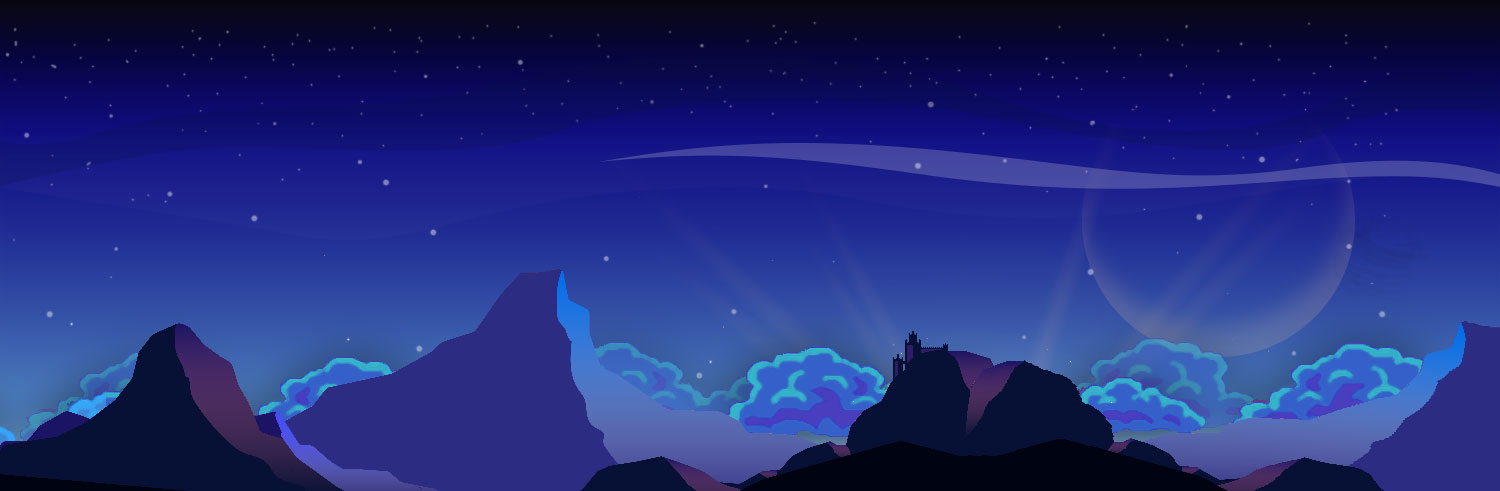
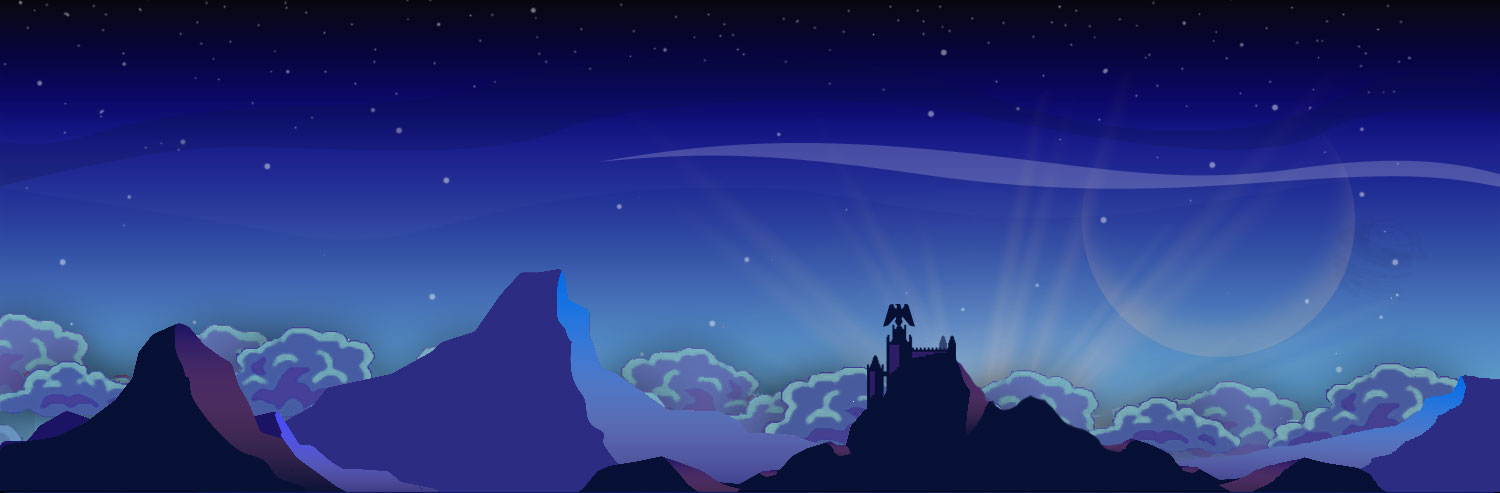
new Caladan background

diff --git a/config/levels/caladan-1.js b/config/levels/caladan-1.js
@@ -10,8 +10,8 @@ var conf = {
     "type": "waving"
   },
   "colors": {
-    "top": "#0f1d5e",
-    "bottom": "#4c5aba"
+    "top": "#091c63",
+    "bottom": "#5169cb"
   },
   "images": {
     "background": "caladan_back",
@@ -106,17 +106,17 @@ var conf = {
     },
     "colors": [
       [
-        "#1b2043",
+        "#0d1544",
         0,
         0
       ],
       [
-        "#6e7ccf",
+        "#3a52b8",
         0,
         50
       ],
       [
-        "#4857b4",
+        "#2943ae",
         0,
         100
       ]

diff --git a/config/levels/caladan-2.js b/config/levels/caladan-2.js
@@ -10,8 +10,8 @@ var conf = {
     "type": "waving"
   },
   "colors": {
-    "top": "#0f1d5e",
-    "bottom": "#4c5aba"
+    "top": "#091c63",
+    "bottom": "#5169cb"
   },
   "images": {
     "background": "caladan_back",
@@ -106,17 +106,17 @@ var conf = {
     },
     "colors": [
       [
-        "#1b2043",
+        "#0d1544",
         0,
         0
       ],
       [
-        "#6e7ccf",
+        "#3a52b8",
         0,
         50
       ],
       [
-        "#4857b4",
+        "#2943ae",
         0,
         100
       ]

diff --git a/config/levels/caladan-3.js b/config/levels/caladan-3.js
@@ -10,8 +10,8 @@ var conf = {
     "type": "waving"
   },
   "colors": {
-    "top": "#0f1d5e",
-    "bottom": "#4c5aba"
+    "top": "#091c63",
+    "bottom": "#5169cb"
   },
   "images": {
     "background": "caladan_back",
@@ -106,17 +106,17 @@ var conf = {
     },
     "colors": [
       [
-        "#1b2043",
+        "#0d1544",
         0,
         0
       ],
       [
-        "#6e7ccf",
+        "#3a52b8",
         0,
         50
       ],
       [
-        "#4857b4",
+        "#2943ae",
         0,
         100
       ]

diff --git a/config/levels/caladan-4.js b/config/levels/caladan-4.js
@@ -10,8 +10,8 @@ var conf = {
     "type": "waving"
   },
   "colors": {
-    "top": "#0f1d5e",
-    "bottom": "#4c5aba"
+    "top": "#091c63",
+    "bottom": "#5169cb"
   },
   "images": {
     "background": "caladan_back",
@@ -106,17 +106,17 @@ var conf = {
     },
     "colors": [
       [
-        "#1b2043",
+        "#0d1544",
         0,
         0
       ],
       [
-        "#6e7ccf",
+        "#3a52b8",
         0,
         50
       ],
       [
-        "#4857b4",
+        "#2943ae",
         0,
         100
       ]

diff --git a/config/levels/caladan-5.js b/config/levels/caladan-5.js
@@ -10,8 +10,8 @@ var conf = {
     "type": "waving"
   },
   "colors": {
-    "top": "#0f1d5e",
-    "bottom": "#4c5aba"
+    "top": "#091c63",
+    "bottom": "#5169cb"
   },
   "images": {
     "background": "caladan_back",
@@ -106,17 +106,17 @@ var conf = {
     },
     "colors": [
       [
-        "#1b2043",
+        "#0d1544",
         0,
         0
       ],
       [
-        "#6e7ccf",
+        "#3a52b8",
         0,
         50
       ],
       [
-        "#4857b4",
+        "#2943ae",
         0,
         100
       ]
